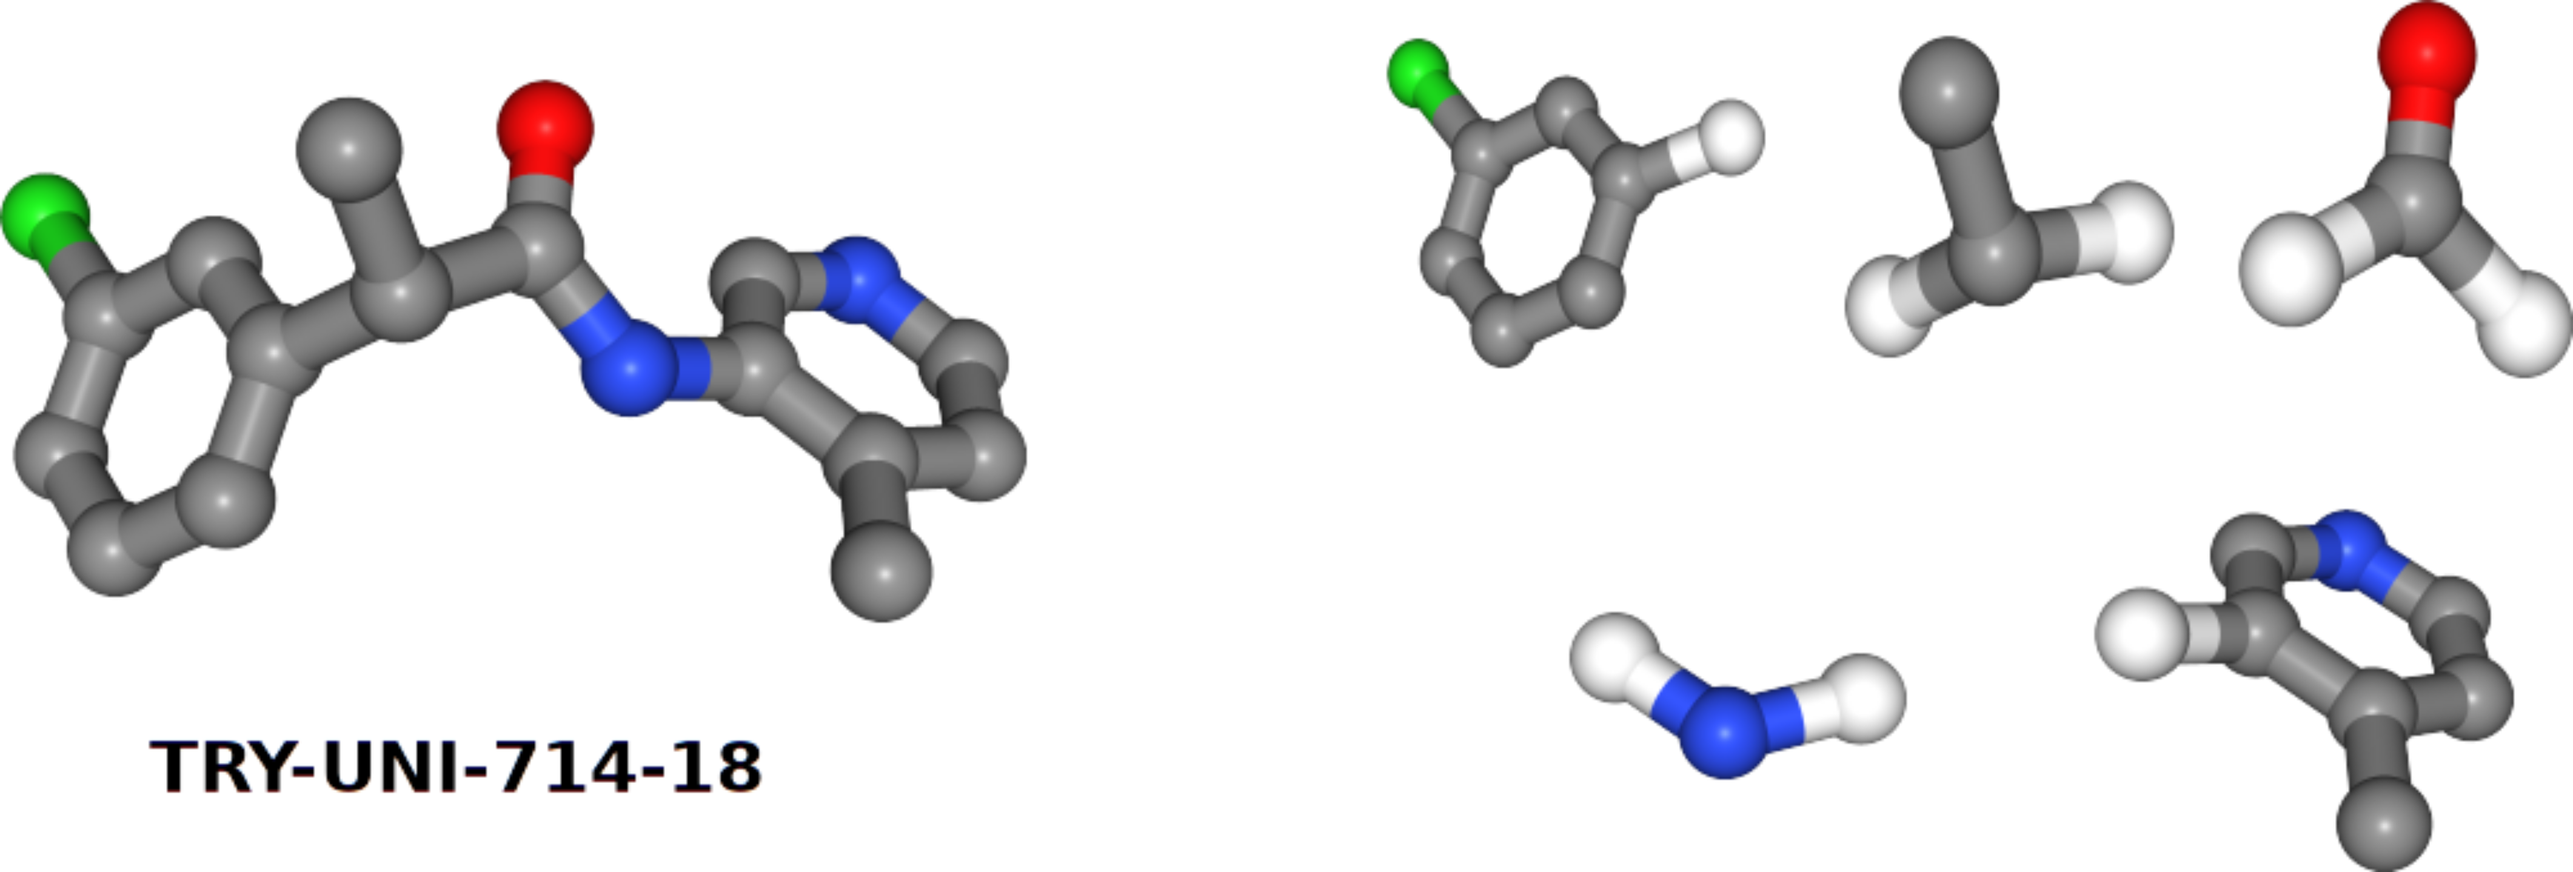
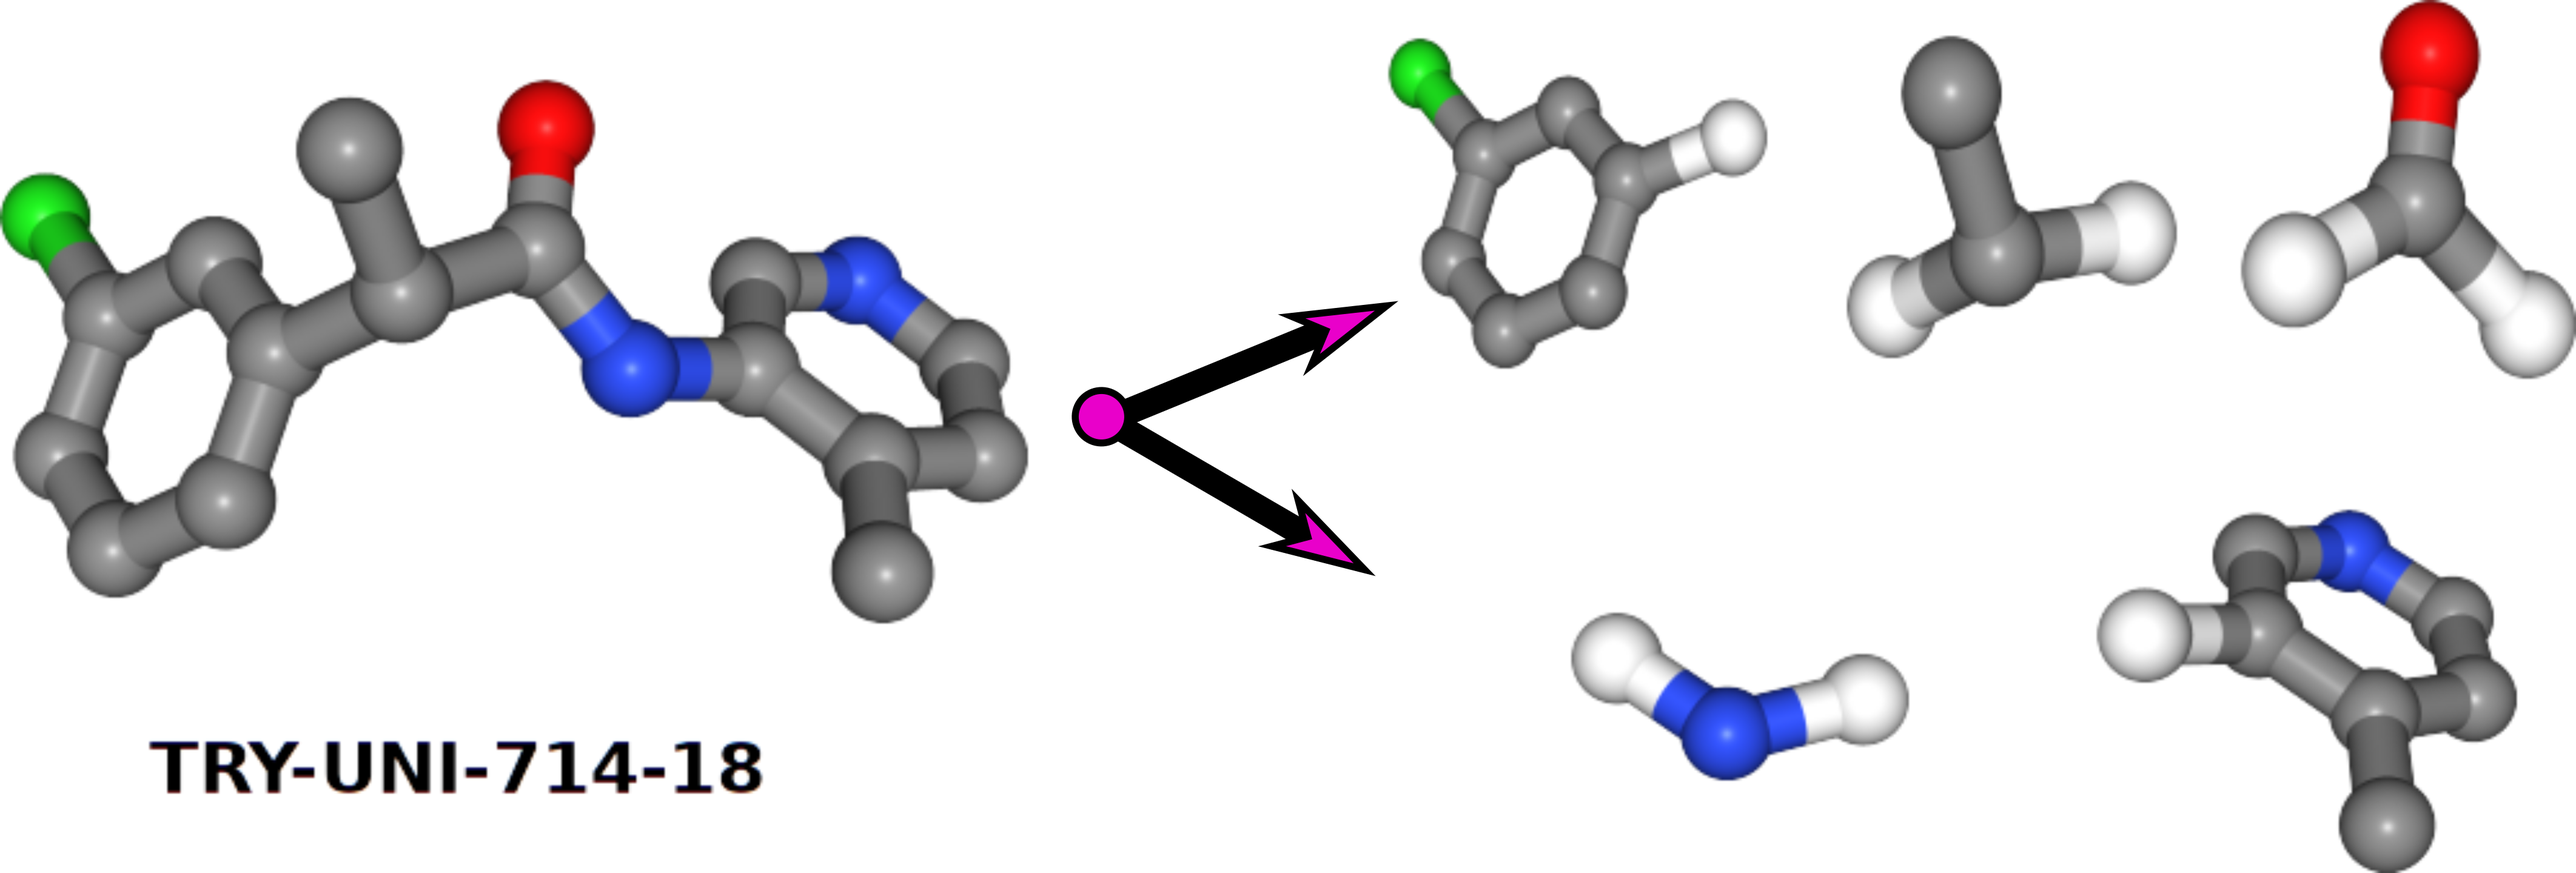
Added some pretty figs

Changed region(s): [[0.4043, 0.3363, 0.5598, 0.6727]]

diff --git a/README.md b/README.md
@@ -20,20 +20,26 @@ Figure 1: XX
 #### XCOS method summary
 
  1. Break designed compound into bits at rotable bonds
- 2. Find total no of bit feats matching clustered frag feats with dist threshold
- 3. SuCOS score these individual bits to all of the fragments
+ ![unconnected](images/xcos_step_1.png)
+ Figure 2: Designed compound on the left is broken into bits at rotable bonds 
+   
+ 3. Use a [SuCOS score](https://chemrxiv.org/articles/SuCOS_is_Better_than_RMSD_for_Evaluating_Fragment_Elaboration_and_Docking_Poses/8100203/1) these individual bits to all of the fragments
  4. Capture best matching fragment with bit 
-
-![unconnected](images/xcos_step_1.png)
-
 ![unconnected](images/xcos_step_2_3.png)
+Figure 3: Using the SuCOS score, each bit is scored for best overlay with the screening fragments. Fragment ID and the SuCOS score is in brackets underneath each best bit/fragment match
+5. Score - see Scoring section below - using the SuCOS score for the overlay of bits with fragments, three scoring methods were used. 
 
 #### Feature clustering summary
+Clustering of features was used to add an additional penalty paramter to the scoting function used - see > Score_2
 
- 1. Get all feats of all frags (feat_name, xyz coords)
- 2. Group same features
- 3. Nearest neighbors algorithim run until all neighbors within radius thresh are aggregated together. Average value of xyz coords used for clusters. 
- 4. Calculate total features – assume each feature is equally important 
+In brief, clustering of features was achieved by:
+
+ 1. Grouping features by feature name and their respective x,y,z coordinates of all the screening fragments
+ 3. Run nearest neighbors algorithm until all neighbors within a radius threshold are clustered together 
+ 4. Get average value of xyz coords for each clustered feature 
+ 4. Calculate total features  
+ 
+![unconnected](images/feat_cluster_step_1.PNG)
 
 #### Scoring
 
